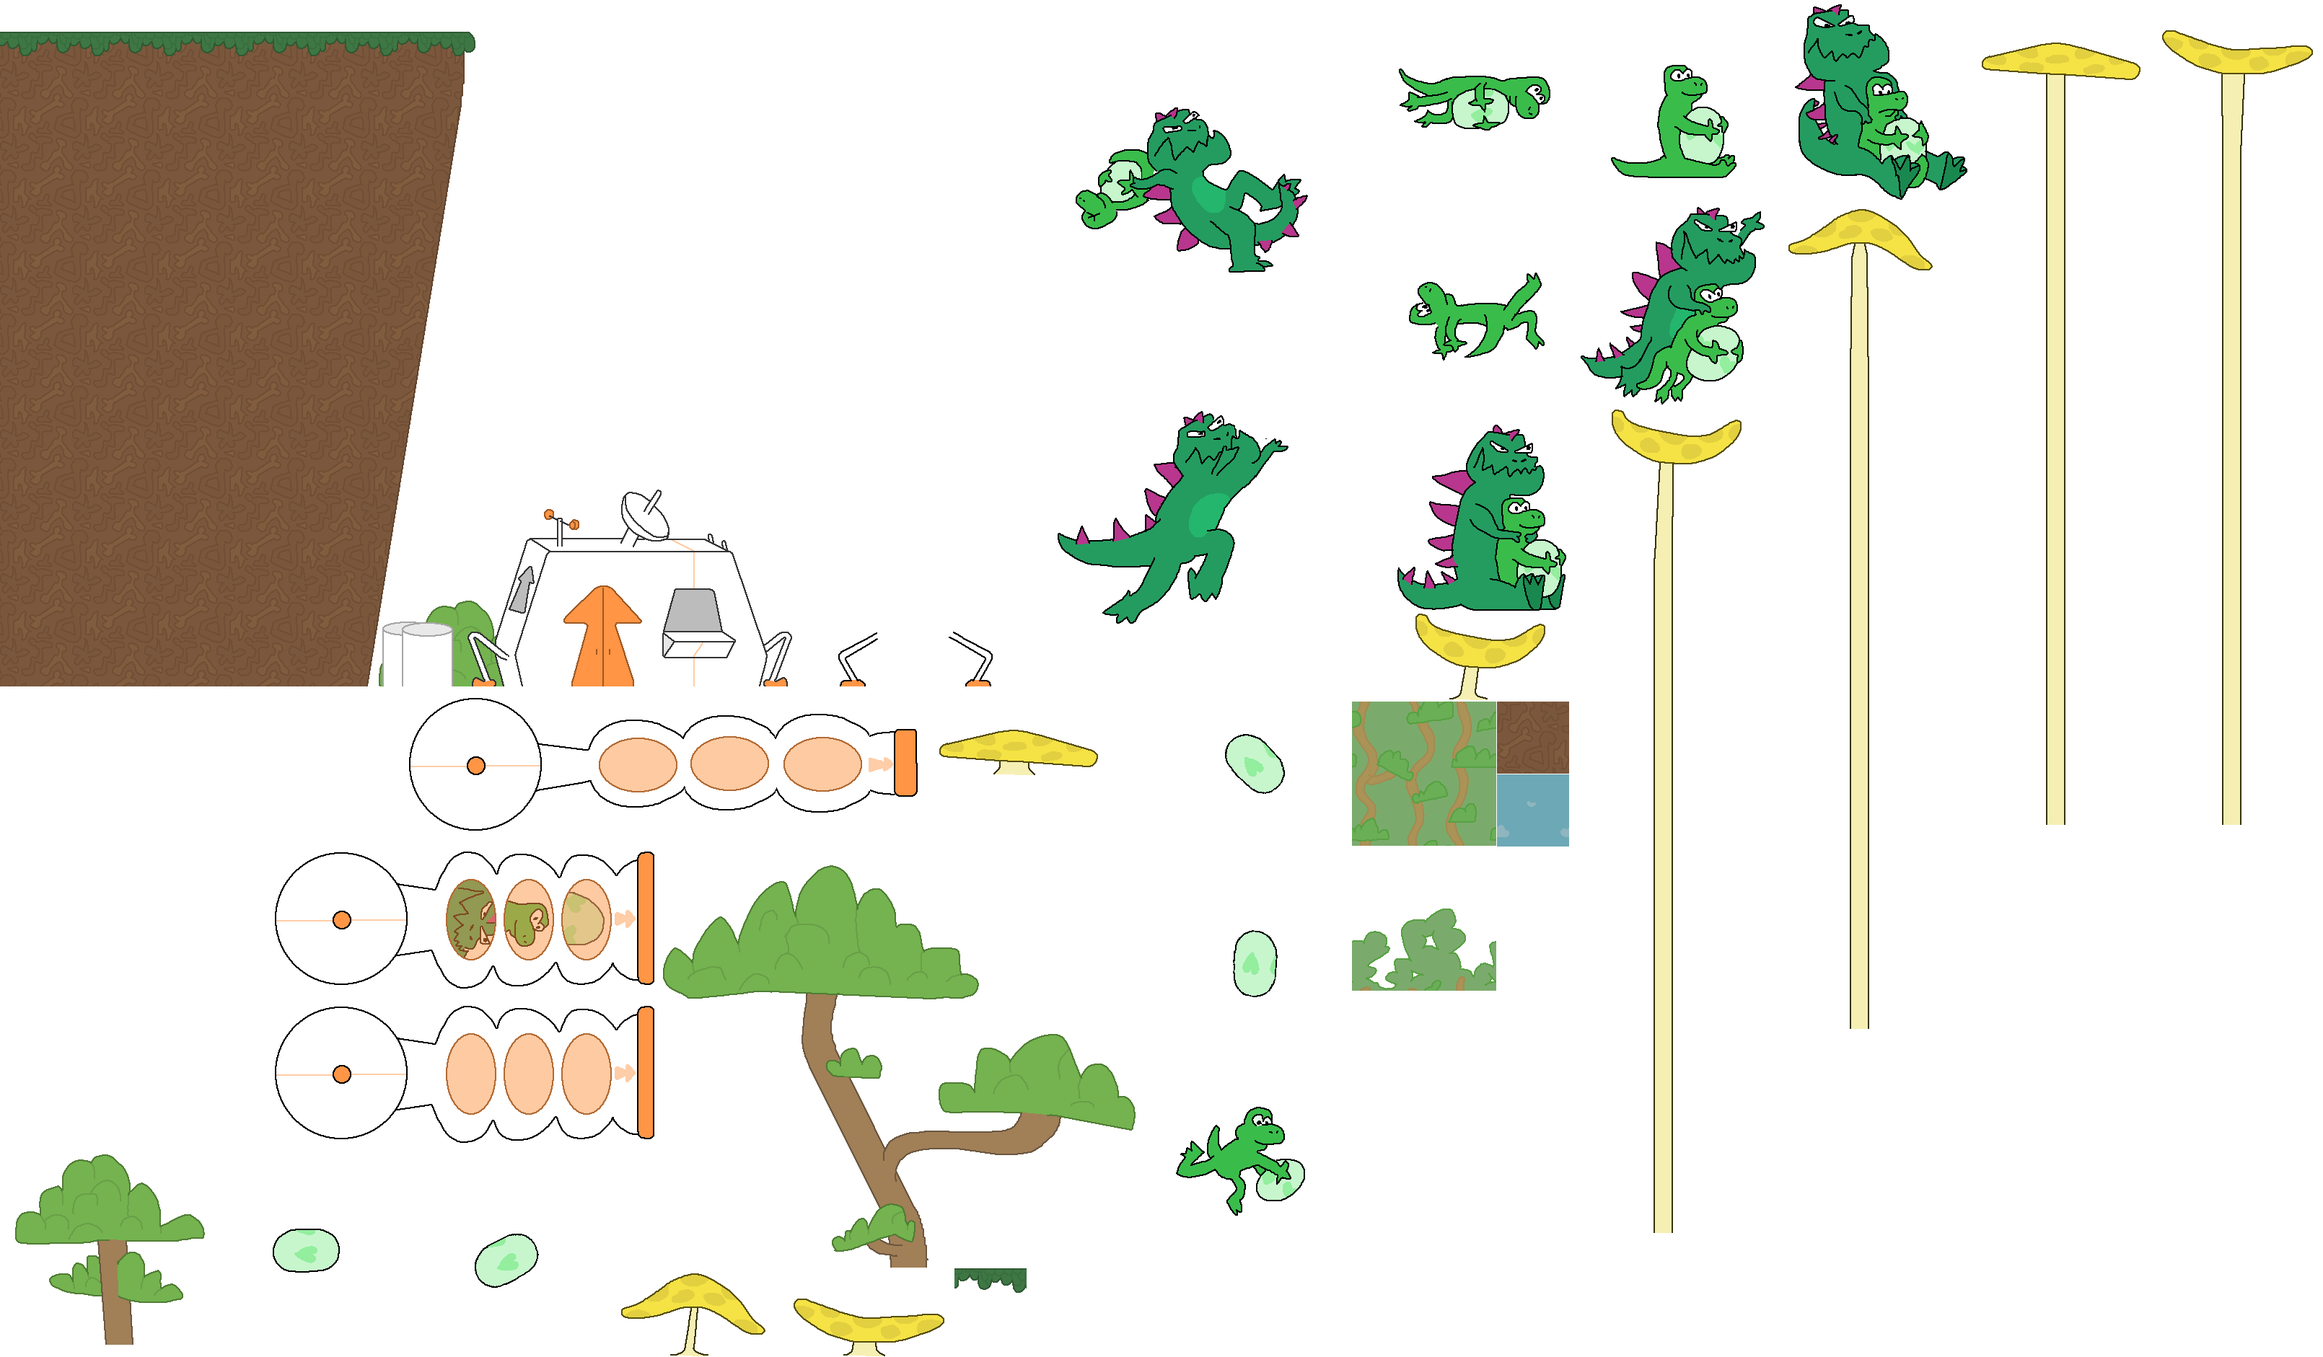
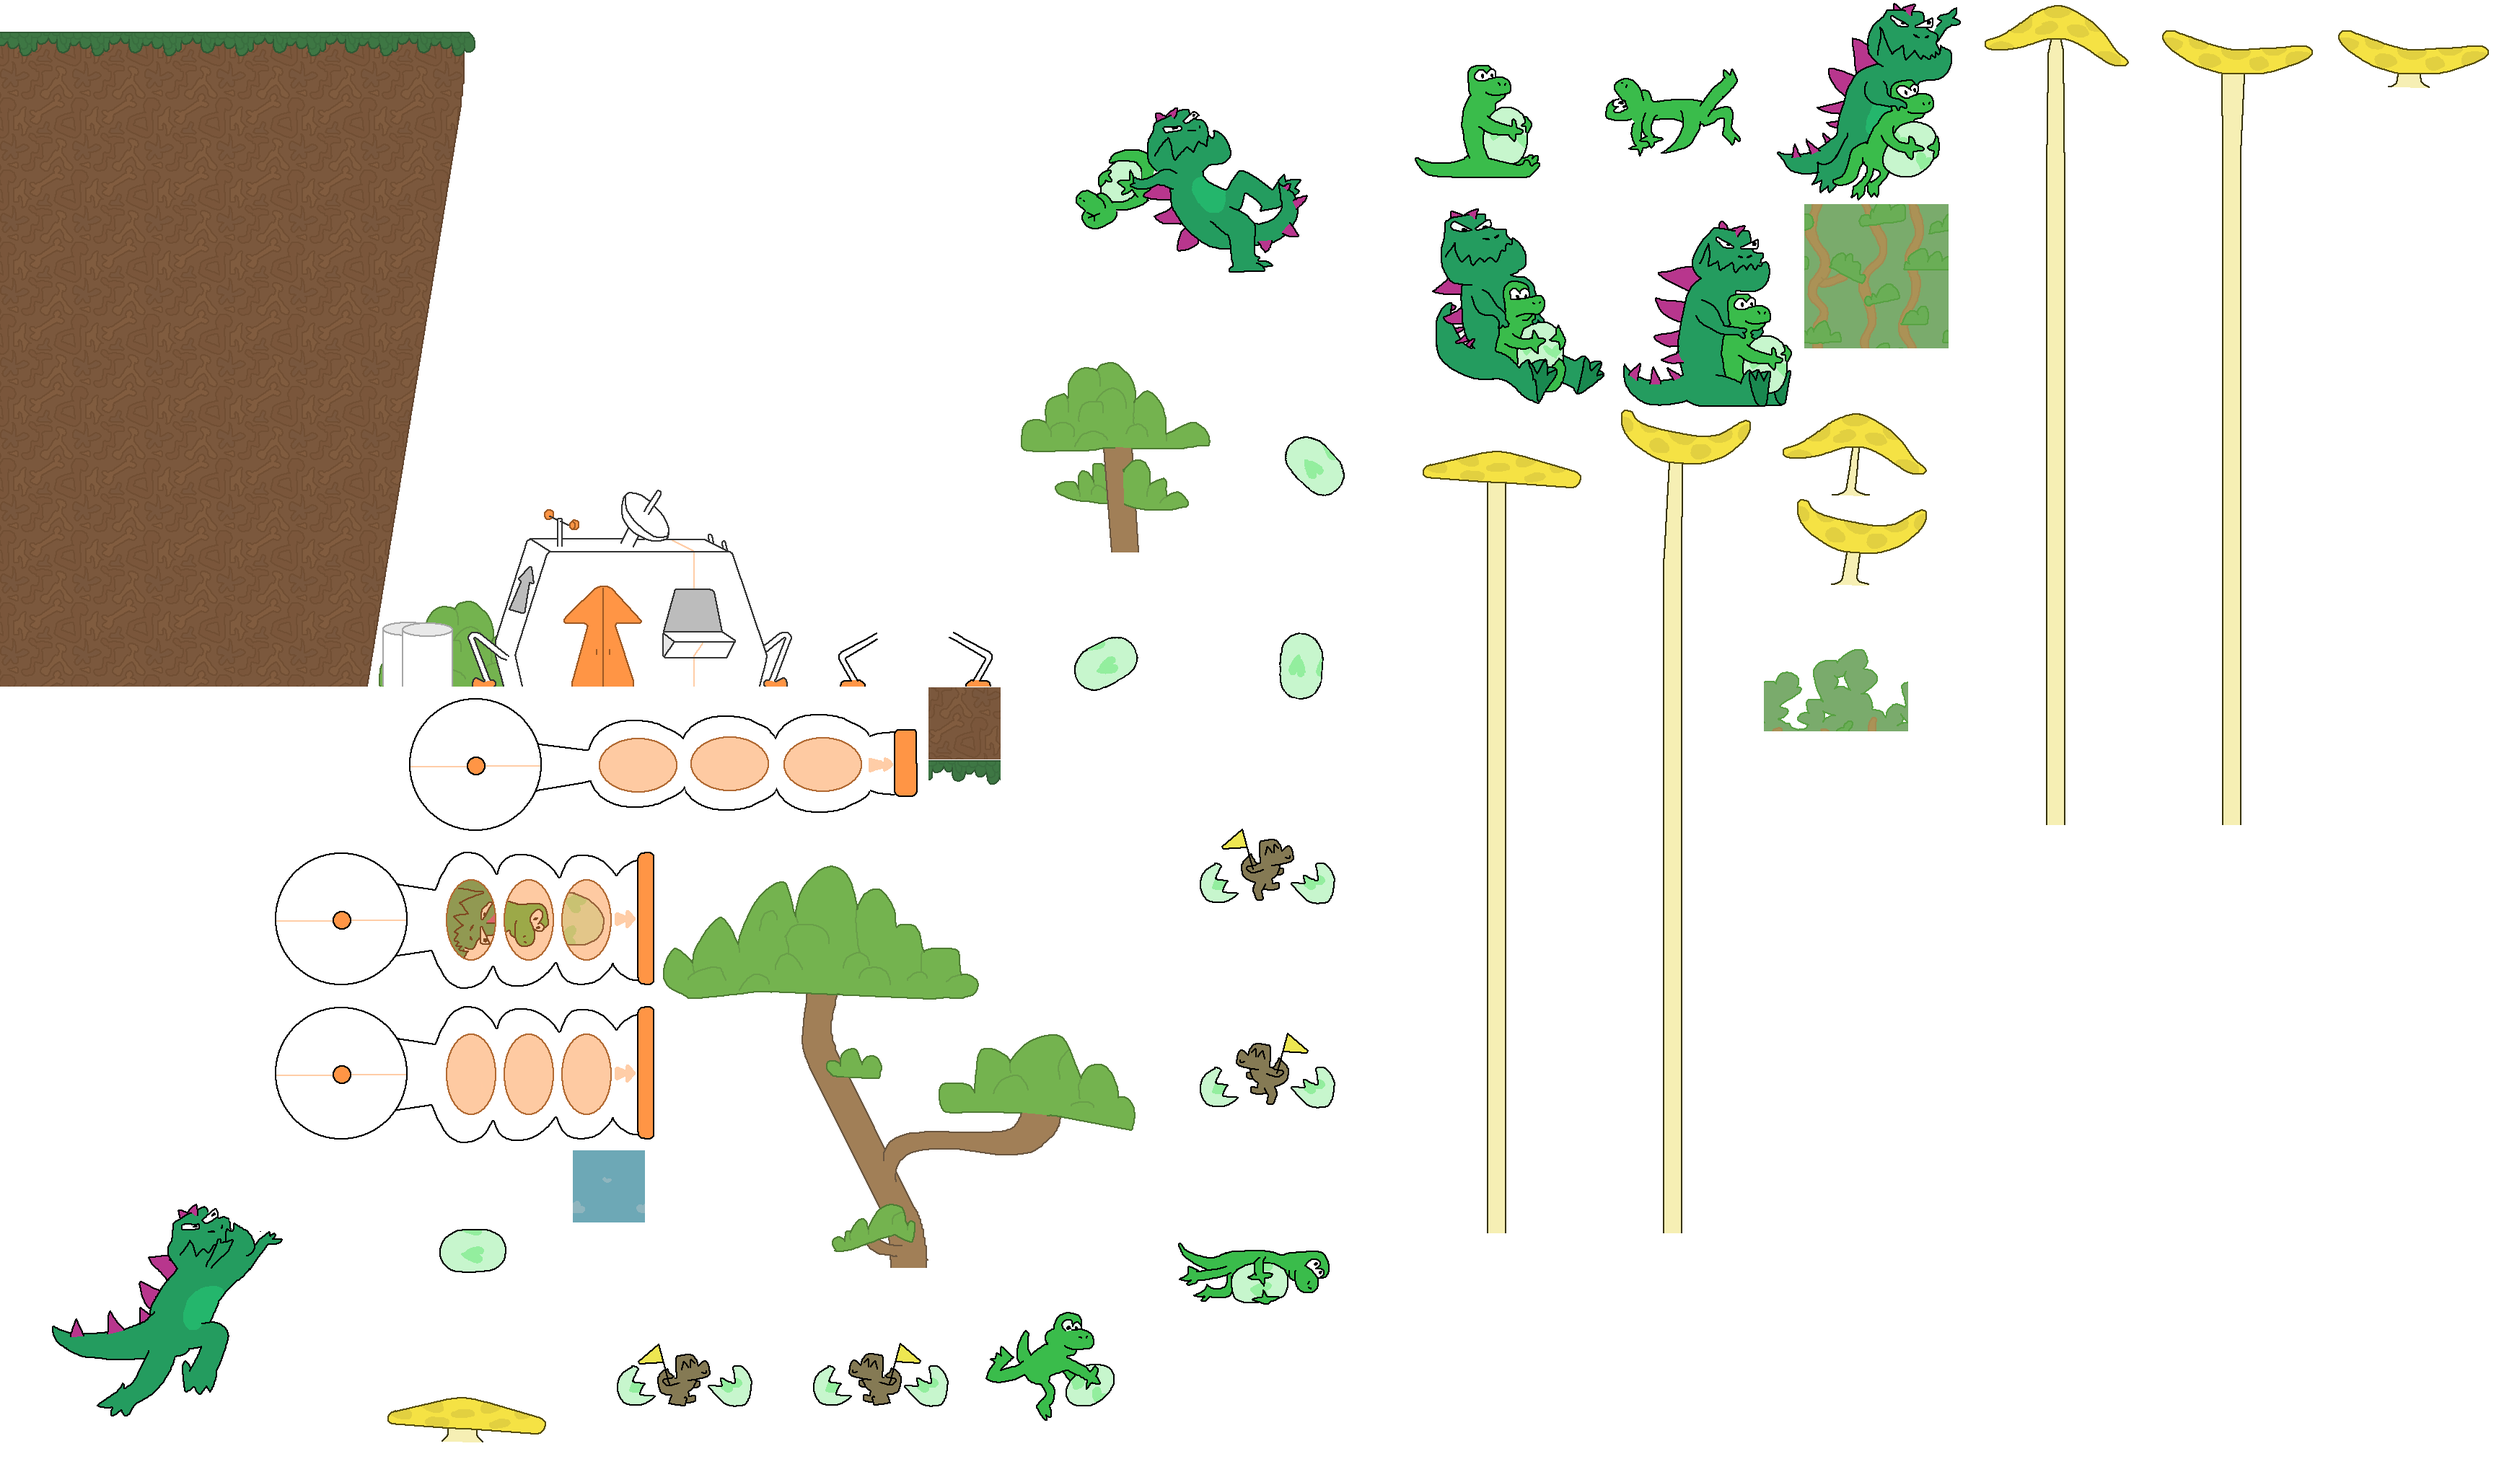
Add hatch and first canon sprite

diff --git a/Components/Player.cs b/Components/Player.cs
@@ -11,7 +11,7 @@ using Nez.Textures;
 
 public class Player : Component, IUpdatable
 {
-    private const float gravity = 360f;
+    private const float gravity = 250f;
     private const float groundFriction = 300f;
 
     public Vector2 Velocity;
@@ -36,7 +36,7 @@ public class Player : Component, IUpdatable
         Velocity = new Vector2(0, 0);
 
         fsm = new StateMachine<Player>(this, new NotThrownState());
-        fsm.AddState(new FallenState());
+        fsm.AddState(new HatchState());
         fsm.AddState(new Flying_3State());
         fsm.AddState(new Flying_2State());
         fsm.AddState(new Flying_1State());
@@ -49,15 +49,17 @@ public class Player : Component, IUpdatable
 
         atlas = Entity.Scene.Content.LoadSpriteAtlas("Content/bundle.atlas");
         animator = Entity.AddComponent(new SpriteAnimator());
-        AddSingleTextureAnimation("3-slide");
+        AddSingleTextureAnimation("canon");
         AddSingleTextureAnimation("3-rise");
         AddSingleTextureAnimation("3-fall");
+        AddSingleTextureAnimation("3-slide");
         AddSingleTextureAnimation("3-charge_throw");
         AddSingleTextureAnimation("2-fly");
         AddSingleTextureAnimation("2-slide");
         AddSingleTextureAnimation("2-charge_throw");
         AddSingleTextureAnimation("1-fly");
         AddAtlasAnimation("1-slide");
+        AddAtlasAnimation("1-win");
     }
 
     public void Update()
@@ -68,6 +70,10 @@ public class Player : Component, IUpdatable
     {
         Time.TimeScale = TimeScale;
         Velocity.Y += gravity * Time.DeltaTime;
+
+        if (fsm.CurrentState is Flying_2State || fsm.CurrentState is Flying_1State) Transform.Rotation = MathF.Atan2(Velocity.Y, Velocity.X);
+        else Transform.Rotation = 0f;
+
         if (mover.Move(Velocity * Time.DeltaTime, out var collisionResult))
         {
             WorldObject other = collisionResult.Collider.Entity.GetComponent<WorldObject>();
@@ -88,8 +94,11 @@ public class Player : Component, IUpdatable
                 if (Velocity.Length() < groundFriction * Time.DeltaTime)
                 {
                     Velocity = Vector2.Zero;
-                    if (fsm.CurrentState is Flying_1State)
-                        fsm.ChangeState<FallenState>();
+                    if (fsm.CurrentState is Flying_1State || fsm.CurrentState is Sliding_1State)
+                    {
+                        fsm.ChangeState<HatchState>();
+                        animator.Play("1-win");
+                    }
                 }
                 else
                     Velocity -= groundFriction * Time.DeltaTime * Vector2.Normalize(Velocity);
@@ -102,9 +111,6 @@ public class Player : Component, IUpdatable
                     state3.slide();
             }
         }
-
-        if (fsm.CurrentState is Flying_2State || fsm.CurrentState is Flying_1State) Transform.Rotation = (float)Math.Atan2((double)Velocity.Y, (double)Velocity.X);
-        else Transform.Rotation = 0f;
     }
     public void Throw(float velocity, float angle = MathF.PI / 4)
     {

diff --git a/PlayerStates/HatchState.cs b/PlayerStates/HatchState.cs
@@ -3,7 +3,7 @@ using System.Collections.Generic;
 using System.Text;
 using Nez.AI.FSM;
 
-public class FallenState : State<Player>
+public class HatchState : State<Player>
 {
     public override void Update(float deltaTime)
     {
